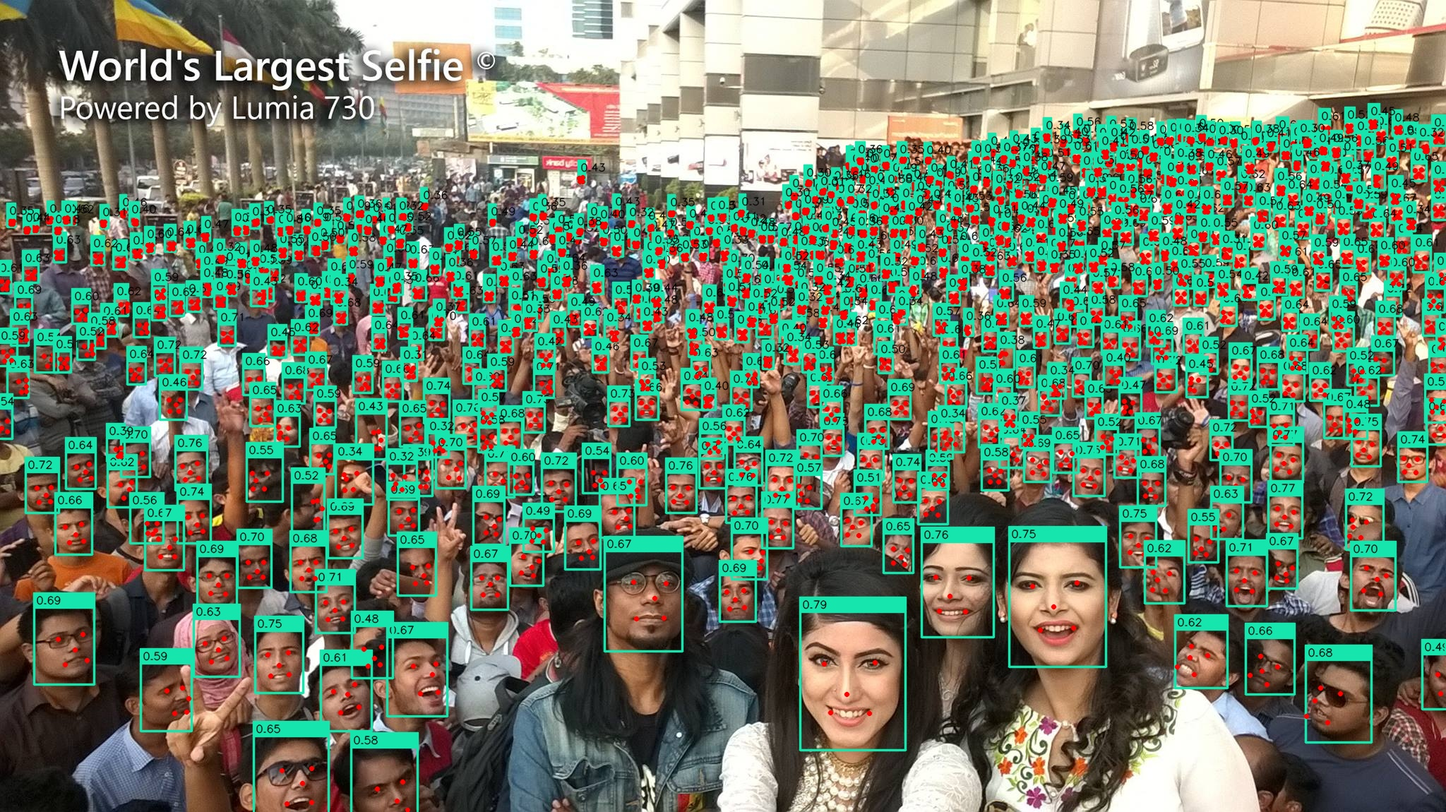
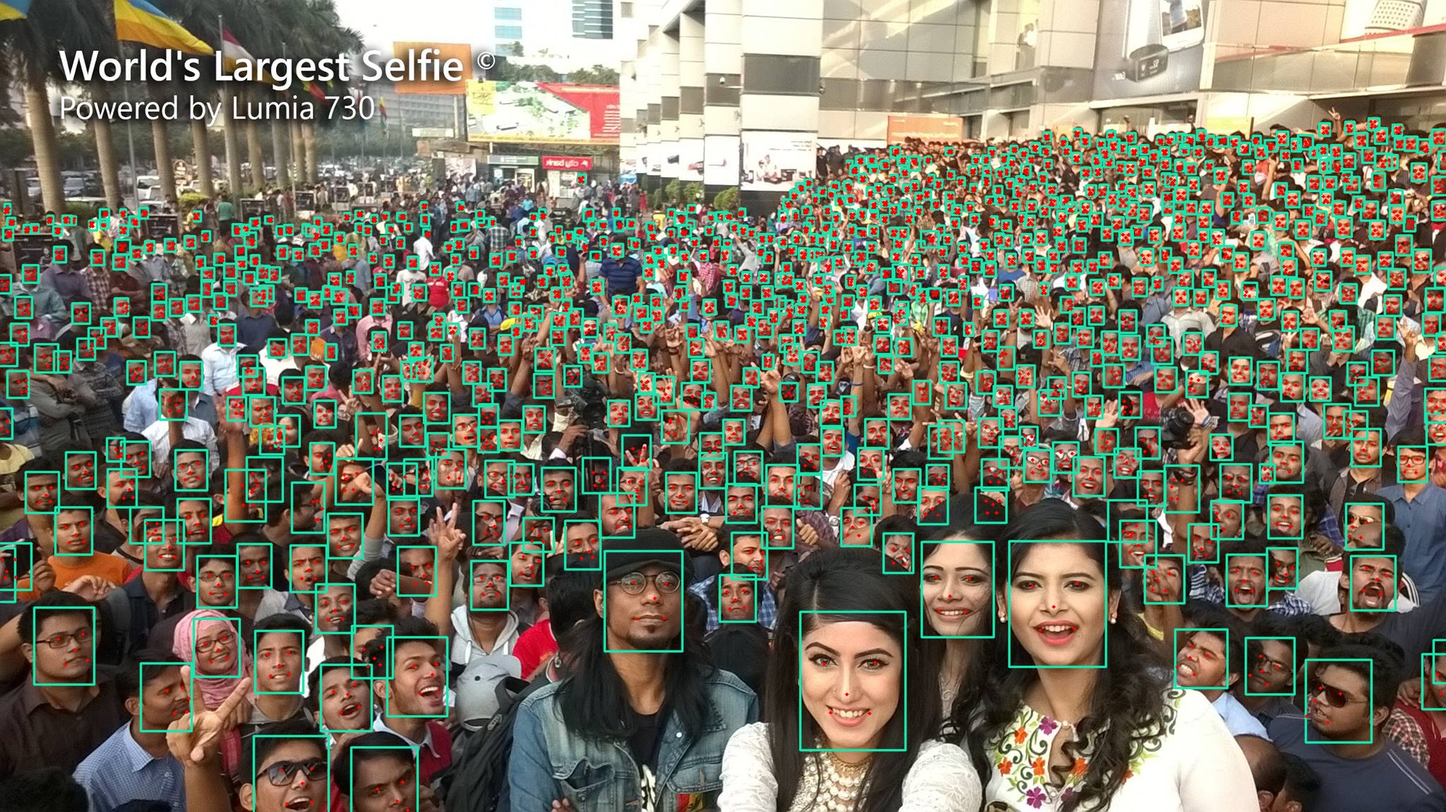
update readme

diff --git a/dbface.py b/dbface.py
@@ -271,6 +271,11 @@ if __name__ == "__main__":
         dbface.cuda()
 
     dbface.load("dbface.pth")
+
     detect_image(dbface, "selfie.jpg")
+    detect_image(dbface, "12_Group_Group_12_Group_Group_12_249.jpg")
     detect_image(dbface, "12_Group_Group_12_Group_Group_12_728.jpg")
+
+
+
     

diff --git a/README.md b/README.md
@@ -1,5 +1,49 @@
 # DBFace
-DBFace for face detection
+DBFace is a single-stage face detector 
 
 
+
+## MAP@0.5 Result on val set of WiderFace
+
+*  Single Scale Inference on the Original Image
+
+Method | Version | Size | Easy | Medium | Hard
+-|-|-|-|-|-
+RetinaFace-MobileNetV2 | Small | 1.68MB  | 0.896 | 0.871 | 0.681
+DBFace-MobileNetV3-ReLU | Large | 7.4MB | 0.883 | **0.880** | **0.786** 
+CenterFace-MobileNetV2 | Large | 7.3MB | ? | ? | ?
+
+
+
+## Result on DBFace (threshold = 0.2)
+
+![selfie](result/selfie.draw.jpg)
+
+---
+
+## Result on RetinaFace-MobileNetV2 (threshold=0.2)
+
+* [link.retinaface](https://github.com/deepinsight/insightface/tree/master/RetinaFace)
+
+![retinaface](result/selfie.retinaface.draw.jpg)
+
+
+
+## Result on CenterFace-MobileNetV2 (threshold=?)
+
+* [link.centerface](https://github.com/Star-Clouds/CenterFace)
+
+![selfie.centerface.draw.jpg](result/selfie.centerface.draw.jpg)
+
+
+
+## References
+
+1. Hamid Rezatofighi1, Generalized Intersection over Union: A Metric and A Loss for Bounding Box Regression：https://arxiv.org/abs/1902.09630
+
+2. Xingyi Zhou, Objects as Points：https://arxiv.org/abs/1904.07850
+
+3. Zili Liu, Training-Time-Friendly Network for Real-Time Object Detection：https://arxiv.org/abs/1909.00700
+
+4. Zhen-Hua Feng, Wing Loss for Robust Facial Landmark Localisation with Convolutional Neural Networkshttps://arxiv.org/abs/1711.06753v4
 
